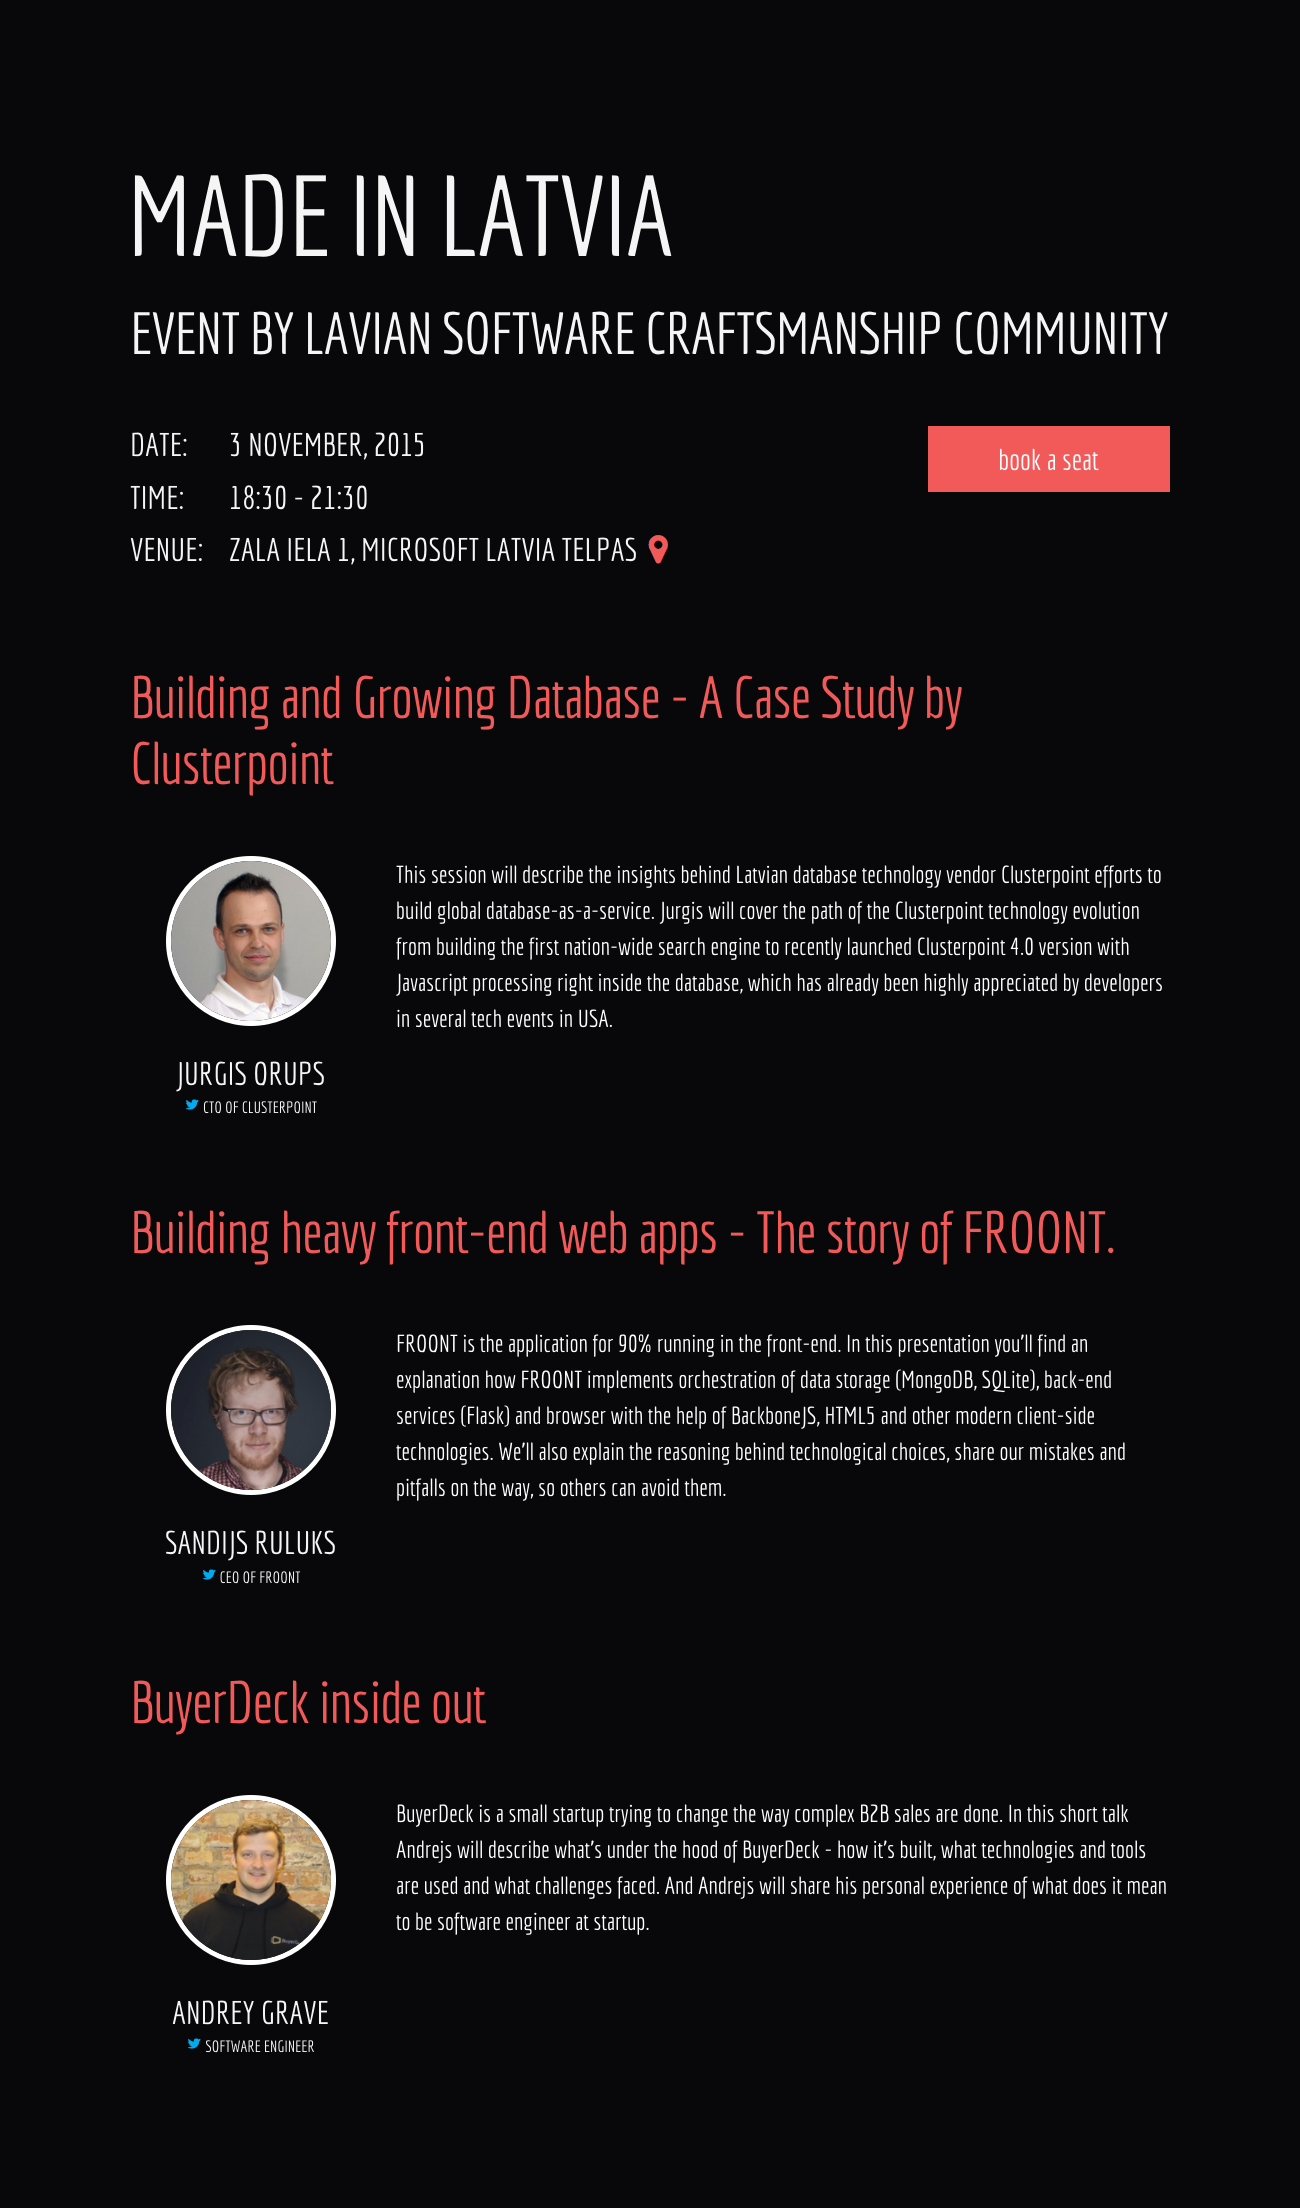
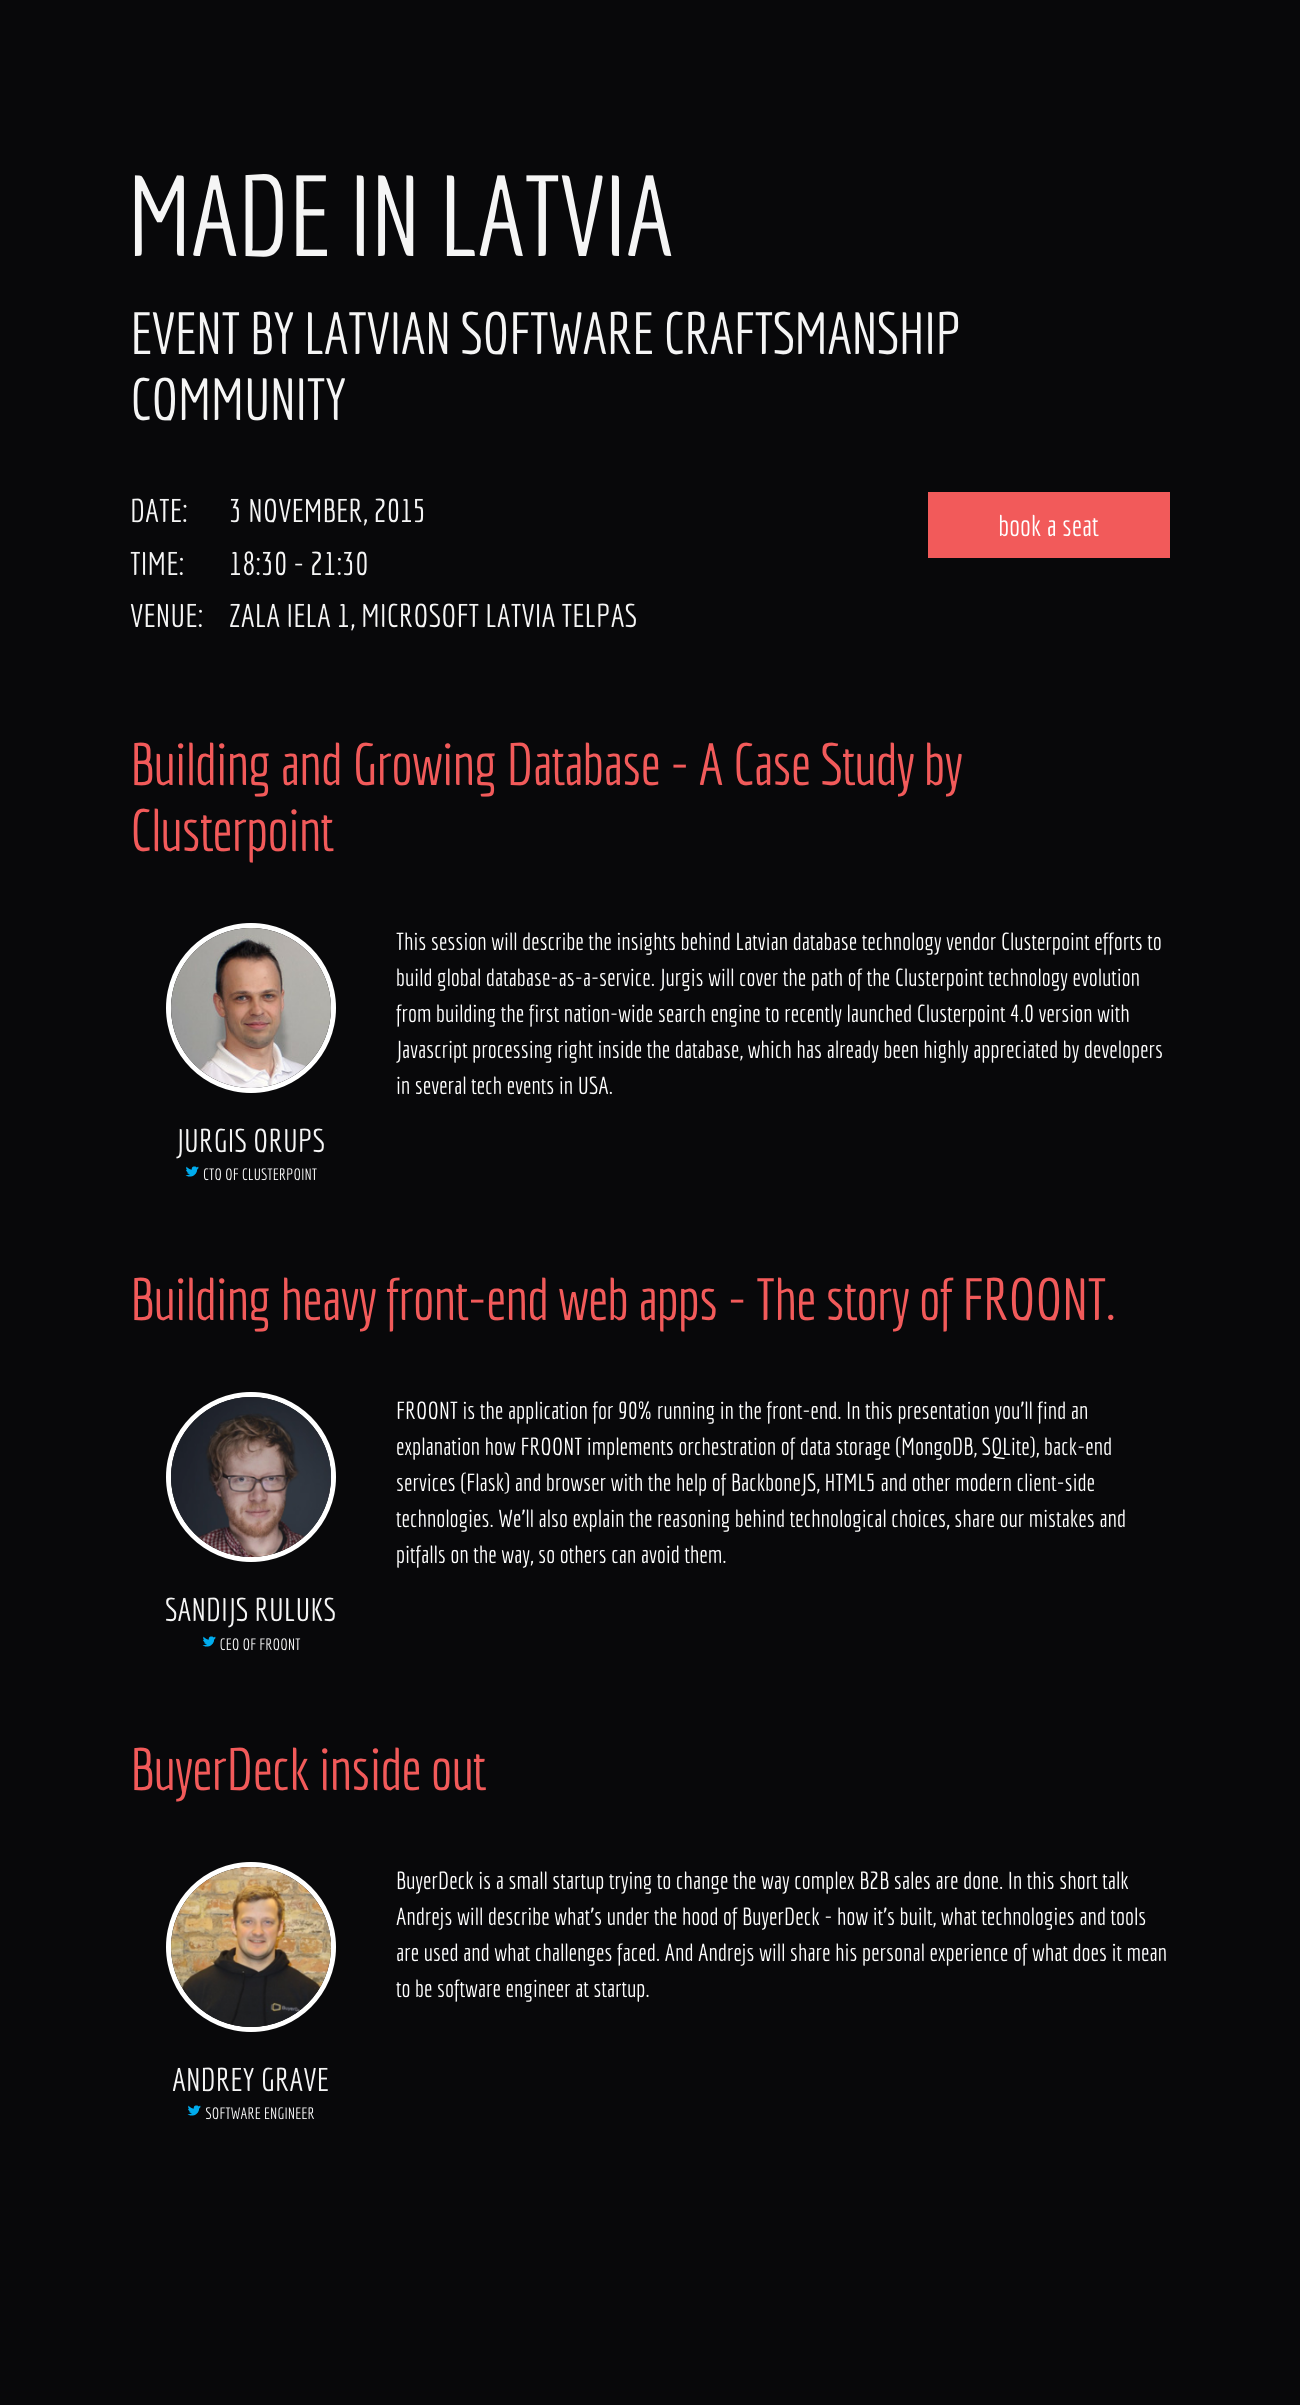
Update 2016-01-18T20:55:59.586Z

diff --git a/2016/craftsmanship.html b/2016/craftsmanship.html
@@ -7,10 +7,10 @@
     <meta name="description" content="Let's open new year by covering topics that are tightly related to software craftsmanship and professionalism. How to behave professionally? How to cure 'Agile hangover'? How to advance your career? How to choose tools properly and avoid falling into tool-hype trap? Let's address these questions together!">
     <meta name="keywords" content="Let's open new year by covering topics that are tightly related to software craftsmanship and professionalism. How to behave professionally? How to cure 'Agile hangover'? How to advance your career? How to choose tools properly and avoid falling into tool-hype trap? Let's address these questions together!">
     <meta property="og:type" content="website">
-    <meta property="og:url" content="http://latcraft.lv/2016/craftsmanship.html">
+    <meta property="og:url" content="http://latcraft.lv/2016/craftmanship.html">
     <meta property="og:title" content="Software Craftsmanship event by Latvian Software Craftsmanship Community">
     <meta property="og:description" content="Let's open new year by covering topics that are tightly related to software craftsmanship and professionalism. How to behave professionally? How to cure 'Agile hangover'? How to advance your career? How to choose tools properly and avoid falling into tool-hype trap? Let's address these questions together!">
-    <meta property="og:image" content="http://latcraft.lv/img/2016/craftsmanship_og-shot.png">
+    <meta property="og:image" content="http://latcraft.lv/img/2016/craftmanship_og-shot.png">
     <link rel="shortcut icon" href="/favicon.ico">
     <link rel="stylesheet" href="http://maxcdn.bootstrapcdn.com/font-awesome/4.2.0/css/font-awesome.min.css">
     <link rel="stylesheet" href="/css/infograph.css">
@@ -20,7 +20,7 @@
       <div class="event">
         <header>
           <h1>Software Craftsmanship</h1>
-          <h2>Event by <a href="http://latcraft.lv">Lavian Software Craftsmanship Community		</a></h2>
+          <h2>Event by <a href="http://latcraft.lv">Latvian Software Craftsmanship Community		</a></h2>
         </header>
         <section>
           <div class="when_where">

diff --git a/2016/craftsmanship_og.html b/2016/craftsmanship_og.html
@@ -7,10 +7,10 @@
     <meta name="description" content="Let's open new year by covering topics that are tightly related to software craftsmanship and professionalism. How to behave professionally? How to cure 'Agile hangover'? How to advance your career? How to choose tools properly and avoid falling into tool-hype trap? Let's address these questions together!">
     <meta name="keywords" content="Let's open new year by covering topics that are tightly related to software craftsmanship and professionalism. How to behave professionally? How to cure 'Agile hangover'? How to advance your career? How to choose tools properly and avoid falling into tool-hype trap? Let's address these questions together!">
     <meta property="og:type" content="website">
-    <meta property="og:url" content="http://latcraft.lv/2016/craftsmanship.html">
+    <meta property="og:url" content="http://latcraft.lv/2016/craftmanship.html">
     <meta property="og:title" content="Software Craftsmanship event by Latvian Software Craftsmanship Community">
     <meta property="og:description" content="Let's open new year by covering topics that are tightly related to software craftsmanship and professionalism. How to behave professionally? How to cure 'Agile hangover'? How to advance your career? How to choose tools properly and avoid falling into tool-hype trap? Let's address these questions together!">
-    <meta property="og:image" content="http://latcraft.lv/img/2016/craftsmanship_og-shot.png">
+    <meta property="og:image" content="http://latcraft.lv/img/2016/craftmanship_og-shot.png">
     <link rel="shortcut icon" href="/favicon.ico">
     <link rel="stylesheet" href="http://maxcdn.bootstrapcdn.com/font-awesome/4.2.0/css/font-awesome.min.css">
     <link rel="stylesheet" href="/css/infograph.css">
@@ -20,7 +20,7 @@
       <div class="event">
         <header>
           <h1>Software Craftsmanship</h1>
-          <h2>Event by <a href="http://latcraft.lv">Lavian Software Craftsmanship Community		</a></h2>
+          <h2>Event by <a href="http://latcraft.lv">Latvian Software Craftsmanship Community		</a></h2>
         </header>
         <section>
           <div class="when_where">

diff --git a/img/2016/craftsmanship.html b/img/2016/craftsmanship.html
@@ -7,10 +7,10 @@
     <meta name="description" content="Let's open new year by covering topics that are tightly related to software craftsmanship and professionalism. How to behave professionally? How to cure 'Agile hangover'? How to advance your career? How to choose tools properly and avoid falling into tool-hype trap? Let's address these questions together!">
     <meta name="keywords" content="Let's open new year by covering topics that are tightly related to software craftsmanship and professionalism. How to behave professionally? How to cure 'Agile hangover'? How to advance your career? How to choose tools properly and avoid falling into tool-hype trap? Let's address these questions together!">
     <meta property="og:type" content="website">
-    <meta property="og:url" content="http://latcraft.lv/2016/craftsmanship.html">
+    <meta property="og:url" content="http://latcraft.lv/2016/craftmanship.html">
     <meta property="og:title" content="Software Craftsmanship event by Latvian Software Craftsmanship Community">
     <meta property="og:description" content="Let's open new year by covering topics that are tightly related to software craftsmanship and professionalism. How to behave professionally? How to cure 'Agile hangover'? How to advance your career? How to choose tools properly and avoid falling into tool-hype trap? Let's address these questions together!">
-    <meta property="og:image" content="http://latcraft.lv/img/2016/craftsmanship_og-shot.png">
+    <meta property="og:image" content="http://latcraft.lv/img/2016/craftmanship_og-shot.png">
     <link rel="shortcut icon" href="/favicon.ico">
     <link rel="stylesheet" href="http://maxcdn.bootstrapcdn.com/font-awesome/4.2.0/css/font-awesome.min.css">
     <link rel="stylesheet" href="/css/infograph.css">
@@ -20,7 +20,7 @@
       <div class="event">
         <header>
           <h1>Software Craftsmanship</h1>
-          <h2>Event by <a href="http://latcraft.lv">Lavian Software Craftsmanship Community		</a></h2>
+          <h2>Event by <a href="http://latcraft.lv">Latvian Software Craftsmanship Community		</a></h2>
         </header>
         <section>
           <div class="when_where">

diff --git a/img/2016/craftsmanship_og.html b/img/2016/craftsmanship_og.html
@@ -7,10 +7,10 @@
     <meta name="description" content="Let's open new year by covering topics that are tightly related to software craftsmanship and professionalism. How to behave professionally? How to cure 'Agile hangover'? How to advance your career? How to choose tools properly and avoid falling into tool-hype trap? Let's address these questions together!">
     <meta name="keywords" content="Let's open new year by covering topics that are tightly related to software craftsmanship and professionalism. How to behave professionally? How to cure 'Agile hangover'? How to advance your career? How to choose tools properly and avoid falling into tool-hype trap? Let's address these questions together!">
     <meta property="og:type" content="website">
-    <meta property="og:url" content="http://latcraft.lv/2016/craftsmanship.html">
+    <meta property="og:url" content="http://latcraft.lv/2016/craftmanship.html">
     <meta property="og:title" content="Software Craftsmanship event by Latvian Software Craftsmanship Community">
     <meta property="og:description" content="Let's open new year by covering topics that are tightly related to software craftsmanship and professionalism. How to behave professionally? How to cure 'Agile hangover'? How to advance your career? How to choose tools properly and avoid falling into tool-hype trap? Let's address these questions together!">
-    <meta property="og:image" content="http://latcraft.lv/img/2016/craftsmanship_og-shot.png">
+    <meta property="og:image" content="http://latcraft.lv/img/2016/craftmanship_og-shot.png">
     <link rel="shortcut icon" href="/favicon.ico">
     <link rel="stylesheet" href="http://maxcdn.bootstrapcdn.com/font-awesome/4.2.0/css/font-awesome.min.css">
     <link rel="stylesheet" href="/css/infograph.css">
@@ -20,7 +20,7 @@
       <div class="event">
         <header>
           <h1>Software Craftsmanship</h1>
-          <h2>Event by <a href="http://latcraft.lv">Lavian Software Craftsmanship Community		</a></h2>
+          <h2>Event by <a href="http://latcraft.lv">Latvian Software Craftsmanship Community		</a></h2>
         </header>
         <section>
           <div class="when_where">

diff --git a/css/infograph.css b/css/infograph.css
@@ -54,7 +54,7 @@ html {
   font-family: 'Economica';
   font-style: normal;
   font-weight: 400;
-  src: url(/fonts/Economica-normal-400.woff) format("woff"); }
+  src: local("Economica"), local("Economica-Regular"), url(/fonts/Economica-normal-400.woff2) format("woff2"), url(https://fonts.gstatic.com/s/economica/v4/jObgDQiPUtmACAaaK3pMG1tXRa8TVwTICgirnJhmVJw.woff2) format "woff2"; }
 
 @font-face {
   font-family: 'Economica';

diff --git a/2015/madeinlatvia.html b/2015/madeinlatvia.html
@@ -20,7 +20,7 @@
       <div class="event">
         <header>
           <h1>Made in Latvia</h1>
-          <h2>Event by <a href="http://latcraft.lv">Lavian Software Craftsmanship Community		</a></h2>
+          <h2>Event by <a href="http://latcraft.lv">Latvian Software Craftsmanship Community		</a></h2>
         </header>
         <section>
           <div class="when_where">

diff --git a/2015/madeinlatvia_og.html b/2015/madeinlatvia_og.html
@@ -20,7 +20,7 @@
       <div class="event">
         <header>
           <h1>Made in Latvia</h1>
-          <h2>Event by <a href="http://latcraft.lv">Lavian Software Craftsmanship Community		</a></h2>
+          <h2>Event by <a href="http://latcraft.lv">Latvian Software Craftsmanship Community		</a></h2>
         </header>
         <section>
           <div class="when_where">

diff --git a/img/2015/madeinlatvia.html b/img/2015/madeinlatvia.html
@@ -20,7 +20,7 @@
       <div class="event">
         <header>
           <h1>Made in Latvia</h1>
-          <h2>Event by <a href="http://latcraft.lv">Lavian Software Craftsmanship Community		</a></h2>
+          <h2>Event by <a href="http://latcraft.lv">Latvian Software Craftsmanship Community		</a></h2>
         </header>
         <section>
           <div class="when_where">

diff --git a/img/2015/madeinlatvia_og.html b/img/2015/madeinlatvia_og.html
@@ -20,7 +20,7 @@
       <div class="event">
         <header>
           <h1>Made in Latvia</h1>
-          <h2>Event by <a href="http://latcraft.lv">Lavian Software Craftsmanship Community		</a></h2>
+          <h2>Event by <a href="http://latcraft.lv">Latvian Software Craftsmanship Community		</a></h2>
         </header>
         <section>
           <div class="when_where">
